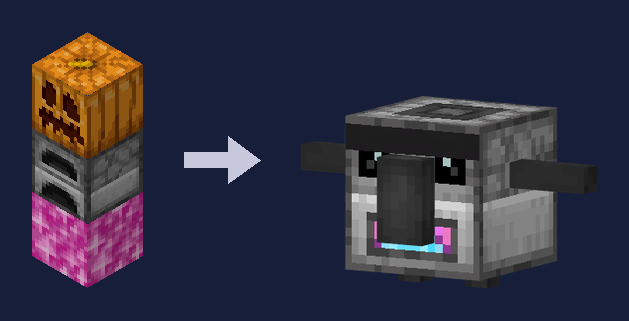
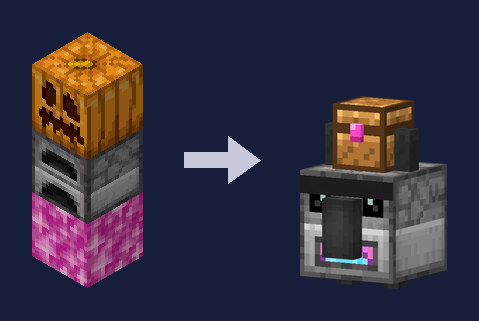
docs(golem): Truhe auf dem Kopf und Sonderquest mit Mala (DE/EN)
Stand MBSkyManager 574924a5, Pool 440e991b/73c1636e:
- Furnace Golem: Kopf-Truhe mit 27 Plätzen (nur Mana-Scherben, Klick oben),
  Ofen-Klick öffnet weiter das Menü, Truhe daneben geht weiter; er nimmt
  zuerst aus der Kopf-Truhe. Beim Abbauen fallen ihre Scherben am Golem.
- Neue Sonderquest mit Mala nach dem ersten Bewohner: geliehener Golem,
  sieben Zeilen, Schrein mit Mana-Block, Ofen und Kürbis.
- Hinweis, dass das Video noch den früheren Golem zeigt.
- Bauplan-Bild mit dem neuen Modell neu gerendert.
- Kurze Hinweise in Start, Quests, HUD, Reisen, Mitglieder, Mana-Items.

diff --git a/sb/furnace-golem.md b/sb/furnace-golem.md
@@ -1,14 +1,15 @@
 ---
 description: >-
   Der Furnace Golem auf MegaBuild.de – Mana-Kugeln und Mana-Blöcke einzahlen,
-  Mana abheben und Mana-Scherben aus der Mana-Geode zu Mana verbacken. Bauen,
-  Menü, Tageslimit und wo die Scherben wachsen.
+  Mana abheben und Mana-Scherben aus der Mana-Geode in der Truhe auf seinem
+  Kopf zu Mana verbacken. Bauen, Menü, Tageslimit, Malas Sonderquest und wo die
+  Scherben wachsen.
 icon: fire
 ---
 
 # Furnace Golem & Mana-Geode
 
-Der **Furnace Golem** bringt dein Mana aufs Konto. Bei ihm zahlst du deine **Mana-Kugeln** und **Mana-Blöcke** ein, hebst Mana als Kugeln wieder ab, und er verbackt **Mana-Scherben** aus der **Mana-Geode** zu Mana – auch wenn du offline bist. Du baust ihn dir selbst, so viele du willst.
+Der **Furnace Golem** bringt dein Mana aufs Konto. Bei ihm zahlst du deine **Mana-Kugeln** und **Mana-Blöcke** ein, hebst Mana als Kugeln wieder ab, und er verbackt **Mana-Scherben** aus der **Mana-Geode** zu Mana – auch wenn du offline bist. Die Scherben legst du ihm einfach in die **Truhe auf seinem Kopf**. Du baust ihn dir selbst, so viele du willst.
 
 <figure><img src="../.gitbook/assets/videos/furnace_golem.jpg" alt="Cover des Videos „Furnace Golem“ mit dem Golem, Mana-Scherbe, Mana-Block und Mana-Kugel"><figcaption><p>Das Video „Furnace Golem“ – Mala erklärt, Ton an</p></figcaption></figure>
 
@@ -16,12 +17,16 @@ Der **Furnace Golem** bringt dein Mana aufs Konto. Bei ihm zahlst du deine **Man
 **Video: Furnace Golem** (1:40, mit Ton) – Mala zeigt dir, wie du den Golem baust, Mana ein- und abhebst und Mana-Scherben verbackst.
 {% endfile %}
 
+{% hint style="info" %}
+**Das Video zeigt noch den früheren Golem:** mit den Armen über dem Kopf und ohne Truhe darauf. Die Scherben kommen dort nur in eine Truhe neben ihm. Heute trägt er eine **Truhe auf dem Kopf**, in die du die Scherben direkt legst – siehe [Scherben verbacken](#scherben-verbacken).
+{% endhint %}
+
 | | |
 | --- | --- |
 | **Bauen** | Mana-Block, darauf ein Ofen, obendrauf ein geschnitzter Kürbis oder eine Kürbislaterne |
 | **Einzahlen** | Mana-Kugeln (1 Mana) und Mana-Blöcke (17 Mana) |
 | **Abheben** | Nur als Mana-Kugeln, so viel ins Inventar passt |
-| **Scherben** | **1 Mana** je Mana-Scherbe, 2 Minuten Arbeit je Scherbe |
+| **Scherben** | **1 Mana** je Mana-Scherbe, 2 Minuten Arbeit je Scherbe – in die Truhe auf seinem Kopf (27 Plätze) oder in eine Truhe neben ihm |
 | **Tageslimit** | **20 Scherben am Tag**, für alle deine Golems zusammen – neues Limit um 04:00 Uhr |
 
 ## Der Mana-Block
@@ -39,7 +44,9 @@ Der **Mana-Block** ist verdichtetes Mana und der Fuß jedes Furnace Golem. **8 M
 
 Setz den **Mana-Block**, darauf einen **Ofen** und zum Schluss einen **geschnitzten Kürbis** oder eine **Kürbislaterne** als Kopf. Erst der Kopf baut den Golem: Die drei Blöcke zerfallen, und an ihrer Stelle steht der Furnace Golem. Er schaut dorthin, wohin das Kürbisgesicht geschaut hat.
 
-<figure><img src="../.gitbook/assets/mana/bauplan-golem.png" alt="Mana-Block, Ofen und geschnitzter Kürbis übereinander, daneben der fertige Furnace Golem"><figcaption><p>Mana-Block, Ofen, Kürbis – und fertig ist der Furnace Golem</p></figcaption></figure>
+So sieht er aus: ein grauer Ofenkörper mit Augen und dunkler Nase, oben in der Mitte eine kleine **Holztruhe mit rosa Riegel**, links und rechts davon zwei kurze Armstummel, die nach oben zeigen.
+
+<figure><img src="../.gitbook/assets/mana/bauplan-golem.png" alt="Mana-Block, Ofen und geschnitzter Kürbis übereinander, daneben der fertige Furnace Golem mit einer kleinen Holztruhe auf dem Kopf"><figcaption><p>Mana-Block, Ofen, Kürbis – und fertig ist der Furnace Golem mit der Truhe auf dem Kopf</p></figcaption></figure>
 
 * **Nur im Überlebensmodus.** Auf fremden Inseln brauchst du das Recht **Bauen**, als Besucher geht es nicht.
 * **Wer den Kopf setzt, ist der Erbauer.** Ihm gehört das Mana aus den Scherben.
@@ -53,12 +60,12 @@ Der **Golem auf deinem Luftschiff** ist ein anderer: Er öffnet den [Skilltree](
 
 ## Das Menü
 
-Ein **Rechtsklick** auf den Golem öffnet sein Menü, und er grüßt dich. Auf fremden Inseln brauchst du dafür das Recht **Behälter**, Besucher dürfen ihn nicht benutzen.
+Ein **Rechtsklick** auf seinen Ofenkörper öffnet sein Menü, und er grüßt dich. Klickst du weiter oben auf die Truhe auf seinem Kopf, öffnet sich stattdessen die Truhe – siehe [Scherben verbacken](#scherben-verbacken). Auf fremden Inseln brauchst du für beides das Recht **Behälter**, Besucher dürfen ihn nicht benutzen.
 
 * **Oben:** dein Mana-Konto, wie viele Mana-Kugeln und Mana-Blöcke du dabeihast, wie viele Kugeln du selbst abgebaut und noch nicht eingezahlt hast und wie viele fremde Kugeln heute noch gehen.
 * **Zweite Reihe – Einzahlen** (grüne Knöpfe): eine Kugel, einen Stapel, alle Kugeln, einen Mana-Block oder alle Mana-Blöcke. Die Zahl auf dem Knopf zeigt, wie viele ein Klick gerade einzahlt.
 * **Dritte Reihe – Abheben** (goldene Knöpfe): 1, 16 oder 64 Kugeln.
-* **Unten:** die **Mana-Scherben** in den Truhen neben ihm, seine **Arbeit** – wer ihn gebaut hat, wie weit die Scherbe ist und warum er gerade Pause macht – und das **Tageslimit**. Dazu **Abbauen** und **Schließen**.
+* **Unten:** die **Mana-Scherben** in der Truhe auf seinem Kopf und in den Truhen neben ihm – ein Klick darauf öffnet die Kopf-Truhe –, seine **Arbeit** – wer ihn gebaut hat, wie weit die Scherbe ist und warum er gerade Pause macht – und das **Tageslimit**. Dazu **Abbauen** und **Schließen**.
 
 ### Einzahlen
 
@@ -98,25 +105,60 @@ Die **Mana-Scherben** für den Golem wachsen in den Höhlen der Hauptinseln – 
 
 ## Scherben verbacken
 
-Stell eine **Truhe**, eine **Redstone-Truhe** oder ein **Fass** waagerecht **direkt neben den Golem** und leg Mana-Scherben hinein.
+### Die Truhe auf seinem Kopf
 
-1. Der Golem nimmt sich **eine Scherbe** aus der Truhe.
-2. Er arbeitet **2 Minuten** daran, die Arme über dem Kopf – rosa Mana glimmt am Ofenmaul, ein heller Faden steigt zwischen seinen Armen auf, und rosa Mana-Staub kreist um ihn. Dazu klingt es leise wie Amethyst.
+Mach einen **Rechtsklick oben auf den Golem**, auf die **Truhe auf seinem Kopf**. Sie öffnet sich direkt als Truhe mit **27 Plätzen**. Leg deine Mana-Scherben hinein – den Rest macht der Golem.
+
+* **Hinein passen nur Mana-Scherben.** Herausnehmen geht immer.
+* Klickst du weiter unten, auf den Ofen, öffnet sich wie bisher sein Menü (siehe oben).
+* Öffnen darfst du sie, wenn du kein Besucher bist und auf der Insel das Recht **Behälter** hast.
+
+### Eine Truhe daneben geht auch
+
+Du kannst auch eine **Truhe**, eine **Redstone-Truhe** oder ein **Fass** waagerecht **direkt neben den Golem** stellen und die Scherben dort hineinlegen. Nicht als Scherbenkiste zählen Shop-Behälter, Clan-Projektkisten und eine Doppeltruhe, deren andere Hälfte nicht geladen oder gesperrt ist.
+
+### So backt er
+
+1. Der Golem nimmt sich **eine Scherbe** – zuerst aus der Truhe auf seinem Kopf: Der Deckel geht auf, und er greift mit beiden Armstummeln hinein. Ist sie leer, nimmt er die Scherbe aus einer Truhe neben sich. Hast du die Kopf-Truhe gerade offen, siehst du die Scherbe darin verschwinden.
+2. Er arbeitet **2 Minuten** daran – rosa Mana glimmt an seinem Ofenmaul, über der Truhe steigt ein heller Faden auf, und rosa Mana-Staub windet sich um ihn nach oben. Dazu klingt es leise wie Amethyst.
 3. Dann bekommt der **Erbauer 1 Mana** aufs Konto, auch wenn er gerade offline ist. Danach nimmt der Golem die nächste Scherbe.
 
 * **Tageslimit: 20 Scherben** je Erbauer und Tag, über alle seine Golems und Inseln zusammen. Ist es voll, döst der Golem bis zum Tageswechsel um **04:00 Uhr**. Das Limit für Aktionen berührt das nicht.
-* **Er arbeitet nur, solange die Insel geladen ist.** Ohne Scherbe oder ohne Truhe wartet er.
+* **Er arbeitet nur, solange die Insel geladen ist.** Ohne Scherbe wartet er und schaut sich um.
 * Scherben hineinlegen darf jeder, der an die Truhe darf – das Mana geht immer an den Erbauer.
-* Nicht als Scherbenkiste zählen Shop-Behälter, Clan-Projektkisten und eine Doppeltruhe, deren andere Hälfte nicht geladen oder gesperrt ist.
 
 ## Abbauen
 
 Im Menü auf **Abbauen** klicken und bestätigen.
 
 * Nur mit dem Recht **Bauen**, nicht als Besucher, und im Überlebens- oder Kreativmodus.
-* Im Überlebensmodus bekommst du **Kopf, Ofen und Mana-Block** zurück. Eine Scherbe, an der er gerade arbeitet, fällt immer heraus.
+* Im Überlebensmodus bekommst du **Kopf, Ofen und Mana-Block** zurück.
+* **Die Scherben aus seiner Truhe** und eine Scherbe, an der er gerade arbeitet, fallen immer auf den Boden – auch im Kreativmodus. Sie landen genau am Golem und fliegen nicht herum, damit am Inselrand nichts in die Leere fällt. Liegen Scherben in seiner Truhe, sagen dir Knopf und Rückfrage das vorher.
 * Rechnet er gerade eine Scherbe ab, versuch es einen Moment später noch einmal.
 * An deinem Konto ändert das Abbauen nichts.
+
+## Die Sonderquest mit Mala
+
+Einmal führt dir **Mala** einen Furnace Golem vor – mit Stimme und Untertiteln.
+
+* **Wann:** nach deinem ersten Bewohner, also wenn du ihn gefunden hast und Mala ihn dir vorgestellt hat. Ist auf deiner Insel noch kein erster Bewohner da, wartet sie höchstens 15 Minuten.
+* **Für wen:** einmal je Spieler und nur für die Spieler der Insel – den Besitzer, Mitglieder mit **Betreten** und auf einer Clan-Insel den Clan. Gäste und Zuschauer bekommen sie nicht, siehe [Reisen & Zuschauen](reisen.md#bewohner-auf-fremden-inseln).
+* **Wo:** auf der Startinsel, 5 bis 12 Blöcke vom Spawn. Eine Chatzeile nennt dir Richtung und Koordinaten, und der Pfeil im Questkasten zeigt dir den Weg.
+
+Mala wartet dort mit einem **geliehenen Golem**, der die Truhe schon auf dem Kopf trägt. Kommst du auf 6 Blöcke heran, erklärt sie dir in sieben Zeilen:
+
+1. Sie stellt dir den Furnace Golem vor.
+2. Mana-Scherben legst du in die Truhe auf seinem Kopf – eine Scherbe schwebt von Mala hinein, und der Deckel geht auf.
+3. Er backt jede Scherbe eine Weile und schreibt dir dafür Mana gut.
+4. Bei ihm zahlst du deine Mana-Kugeln aufs Konto ein.
+5. So baust du dir einen eigenen: Auf einem kleinen **Schrein** erscheinen **Mana-Block, Ofen und geschnitzter Kürbis** übereinander, jeder genau dann, wenn Mala ihn nennt.
+6. Den Mana-Block craftest du aus acht Mana-Kugeln rund um eine Mana-Ladung.
+7. Der Golem war nur geliehen und verschwindet in rosa Funken.
+
+Danach ist die Quest geschafft, und eine Chatzeile fasst noch einmal zusammen, wie du deinen eigenen Golem baust und befüllst.
+
+* Gehst du mittendrin **weiter als 24 Blöcke** weg, bricht die Quest ab. Kommst du wieder heran, beginnt sie von vorn.
+* **Das alles siehst nur du:** Mala, den Golem, den Schrein und die Scherbe. An der Insel ändert sich nichts.
 
 ## Handel
 

diff --git a/en/furnace-golem.md b/en/furnace-golem.md
@@ -1,14 +1,15 @@
 ---
 description: >-
   The Furnace Golem on MegaBuild.de – deposit Mana orbs and Mana Blocks,
-  withdraw Mana and turn Mana Shards from the Mana Geode into Mana. Building,
-  menu, daily limit and where the shards grow.
+  withdraw Mana and turn Mana Shards from the Mana Geode into Mana in the chest
+  on its head. Building, menu, daily limit, Mala's special quest and where the
+  shards grow.
 icon: fire
 ---
 
 # Furnace Golem & Mana Geode
 
-The **Furnace Golem** puts your Mana into your account. At the golem you deposit your **Mana orbs** and **Mana Blocks**, withdraw Mana as orbs, and it turns **Mana Shards** from the **Mana Geode** into Mana – even while you're offline. You build it yourself, as many as you like.
+The **Furnace Golem** puts your Mana into your account. At the golem you deposit your **Mana orbs** and **Mana Blocks**, withdraw Mana as orbs, and it turns **Mana Shards** from the **Mana Geode** into Mana – even while you're offline. You simply put the shards into the **chest on its head**. You build it yourself, as many as you like.
 
 <figure><img src="../.gitbook/assets/videos/furnace_golem.jpg" alt="Cover of the video “Furnace Golem” with the golem, a Mana Shard, a Mana Block and a Mana orb"><figcaption><p>The video “Furnace Golem” – Mala explains, in German</p></figcaption></figure>
 
@@ -16,12 +17,16 @@ The **Furnace Golem** puts your Mana into your account. At the golem you deposit
 **Video: Furnace Golem** (1:40, in German, with sound) – Mala shows you how to build the golem, deposit and withdraw Mana and turn Mana Shards into Mana.
 {% endfile %}
 
+{% hint style="info" %}
+**The video still shows the earlier golem:** with its arms raised over its head and no chest on top. In the video the shards only go into a chest next to it. Today it carries a **chest on its head** that you put the shards straight into – see [Turning shards into Mana](#turning-shards-into-mana).
+{% endhint %}
+
 | | |
 | --- | --- |
 | **Building** | A Mana Block, a furnace on top, then a carved pumpkin or a jack o'lantern |
 | **Deposit** | Mana orbs (1 Mana) and Mana Blocks (17 Mana) |
 | **Withdraw** | Only as Mana orbs, as much as fits into your inventory |
-| **Shards** | **1 Mana** per Mana Shard, 2 minutes of work per shard |
+| **Shards** | **1 Mana** per Mana Shard, 2 minutes of work per shard – into the chest on its head (27 slots) or a chest next to it |
 | **Daily limit** | **20 shards a day** for all your golems together – new limit at 04:00 |
 
 ## The Mana Block
@@ -39,7 +44,9 @@ The **Mana Block** is compressed Mana and the base of every Furnace Golem. **8 M
 
 Place the **Mana Block**, a **furnace** on top of it and finally a **carved pumpkin** or a **jack o'lantern** as the head. Only the head builds the golem: the three blocks fall apart and the Furnace Golem stands in their place. It faces the way the pumpkin face was pointing.
 
-<figure><img src="../.gitbook/assets/mana/bauplan-golem.png" alt="Mana Block, furnace and carved pumpkin stacked, next to them the finished Furnace Golem"><figcaption><p>Mana Block, furnace, pumpkin – and the Furnace Golem is ready</p></figcaption></figure>
+This is what it looks like: a grey furnace body with eyes and a dark nose, a small **wooden chest with a pink latch** on top in the middle, and two short arm stubs pointing up on either side of it.
+
+<figure><img src="../.gitbook/assets/mana/bauplan-golem.png" alt="Mana Block, furnace and carved pumpkin stacked, next to them the finished Furnace Golem with a small wooden chest on its head"><figcaption><p>Mana Block, furnace, pumpkin – and the Furnace Golem with the chest on its head is ready</p></figcaption></figure>
 
 * **Survival mode only.** On other islands you need the **Build** right; visitors can't build one.
 * **Whoever places the head is the builder.** The Mana from the shards belongs to them.
@@ -53,12 +60,12 @@ The **golem on your airship** is a different one: it opens the [skill tree](skil
 
 ## The menu
 
-A **right-click** on the golem opens its menu, and it greets you. On other islands you need the **Containers** right; visitors can't use it.
+A **right-click** on its furnace body opens its menu, and it greets you. If you click higher up, on the chest on its head, the chest opens instead – see [Turning shards into Mana](#turning-shards-into-mana). On other islands you need the **Containers** right for both; visitors can't use it.
 
 * **Top:** your Mana account, how many Mana orbs and Mana Blocks you carry, how many orbs you mined yourself and haven't deposited yet, and how many foreign orbs you can still deposit today.
 * **Second row – Deposit** (green buttons): one orb, a stack, all orbs, one Mana Block or all Mana Blocks. The number on the button shows how many one click deposits right now.
 * **Third row – Withdraw** (gold buttons): 1, 16 or 64 orbs.
-* **Bottom:** the **Mana shards** in the chests next to it, its **Work** – who built it, how far the shard is and why it's taking a break – and the **Daily limit**. Plus **Dismantle** and **Close**.
+* **Bottom:** the **Mana shards** in the chest on its head and in the chests next to it (a click on this card opens the head chest), its **Work** – who built it, how far the shard is and why it's taking a break – and the **Daily limit**. Plus **Dismantle** and **Close**.
 
 ### Deposit
 
@@ -98,25 +105,60 @@ The **Mana Shards** for the golem grow in the caves of the main islands – on *
 
 ## Turning shards into Mana
 
-Put a **chest**, a **trapped chest** or a **barrel** horizontally **right next to the golem** and put Mana Shards into it.
+### The chest on its head
 
-1. The golem takes **one shard** from the chest.
-2. It works on it for **2 minutes** with its arms raised over its head – pink Mana glows at the furnace mouth, a bright strand rises between its arms, and pink mana dust swirls around it, with a soft amethyst chime.
+**Right-click the top of the golem**, the **chest on its head**. It opens straight away as a chest with **27 slots**. Put your Mana Shards in – the golem does the rest.
+
+* **Only Mana Shards fit in.** You can always take things out.
+* If you click lower down, on the furnace, its menu opens as before (see above).
+* You may open it if you're not a visitor and have the **Containers** right on the island.
+
+### A chest next to it works too
+
+You can also put a **chest**, a **trapped chest** or a **barrel** horizontally **right next to the golem** and put the shards in there. Shop containers, clan project chests and a double chest whose other half isn't loaded or is locked don't count as shard chests.
+
+### How it bakes
+
+1. The golem takes **one shard** – first from the chest on its head: the lid opens and it reaches in with both arm stubs. If that one is empty, it takes the shard from a chest next to it. If you have the head chest open at that moment, you see the shard disappear from it.
+2. It works on it for **2 minutes** – pink Mana glows at its furnace mouth, a bright strand rises above the chest, and pink mana dust winds its way up around it, with a soft amethyst chime.
 3. Then the **builder gets 1 Mana** in their account, even while offline. After that the golem takes the next shard.
 
 * **Daily limit: 20 shards** per builder and day, across all their golems and islands. When it's full, the golem dozes until the daily reset at **04:00**. This doesn't touch the daily limit for actions.
-* **It only works while the island is loaded.** Without a shard or without a chest it waits.
+* **It only works while the island is loaded.** Without a shard it waits and looks around.
 * Anyone who may open the chest may put shards into it – the Mana always goes to the builder.
-* Shop containers, clan project chests and a double chest whose other half isn't loaded or is locked don't count as shard chests.
 
 ## Dismantling
 
 Click **Dismantle** in the menu and confirm.
 
 * Only with the **Build** right, not as a visitor, and in survival or creative mode.
-* In survival mode you get the **head, furnace and Mana Block** back. A shard it's working on always drops.
+* In survival mode you get the **head, furnace and Mana Block** back.
+* **The shards from its chest** and a shard it's working on always drop to the ground – in creative mode too. They land right at the golem and don't scatter, so nothing falls into the void at the edge of the island. If there are shards in its chest, the button and the confirmation tell you beforehand.
 * If it's settling a shard right now, try again a moment later.
 * Dismantling doesn't change your account.
+
+## The special quest with Mala
+
+Once, **Mala** shows you a Furnace Golem – with voice and subtitles.
+
+* **When:** after your first resident, that is once you've found them and Mala has introduced them to you. If there's no first resident on your island yet, she waits 15 minutes at most.
+* **Who:** once per player and only for the island's own players – the owner, members with **Join** and, on a clan island, the clan. Guests and spectators don't get it, see [Travel & Watching](travel.md#residents-on-other-islands).
+* **Where:** on the starting island, 5 to 12 blocks from the spawn. A chat line tells you the direction and coordinates, and the arrow in the quest box shows you the way.
+
+Mala waits there with a **borrowed golem** that already carries the chest on its head. Once you're within 6 blocks, she explains in seven lines:
+
+1. She introduces the Furnace Golem.
+2. You put Mana Shards into the chest on its head – a shard floats in from Mala and the lid opens.
+3. It bakes each shard for a while and credits you with Mana for it.
+4. It's also where you deposit your Mana orbs into your account.
+5. How to build your own: on a small **shrine**, a **Mana Block, a furnace and a carved pumpkin** appear one on top of the other, each right when Mala names it.
+6. You craft the Mana Block from eight Mana orbs around a Mana Charge.
+7. The golem was only on loan and vanishes in pink sparks.
+
+After that the quest is done, and a chat line sums up once more how to build and fill your own golem.
+
+* If you walk **more than 24 blocks** away in the middle of it, the quest stops. When you come back, it starts over.
+* **Only you see it all:** Mala, the golem, the shrine and the shard. Nothing changes on the island.
 
 ## Trading
 

diff --git a/sb/mitglieder.md b/sb/mitglieder.md
@@ -40,7 +40,7 @@ Einladen dürfen der Besitzer und Mitglieder mit dem Recht **Mitglieder**.
 | Recht | Was es erlaubt |
 | ----- | -------------- |
 | **Bauen** | Blöcke setzen und abbauen, Eimer, Feuer, Rüstungsständer, Rahmen, Schilder |
-| **Behälter** | Kisten, Fässer, Öfen, Trichter, Braustände, Lesepulte, das Menü des [Furnace Golem](furnace-golem.md) |
+| **Behälter** | Kisten, Fässer, Öfen, Trichter, Braustände, Lesepulte, das Menü und die Truhe auf dem Kopf des [Furnace Golem](furnace-golem.md) |
 | **Schalter** | Türen, Falltüren, Zauntore, Knöpfe, Hebel, Druckplatten |
 | **Tiere** | Tiere schlagen, füttern, züchten, anleinen, scheren, melken, reiten, [Forestlinge](forestlinge.md#an-der-leine) an die Leine nehmen und losbinden |
 | **Ernten** | Reife Pflanzen ernten und neu pflanzen |
@@ -55,7 +55,7 @@ Dazu kommt der Schalter **Betreten**: Ist er aus, kommt das Mitglied nur noch ü
 
 * Fehlt dir ein Recht, sagt dir die Anzeige über der Hotbar, welches – zum Beispiel „Hier darfst du nicht bauen.“
 * Eine Kiste, einen Ofen oder einen anderen Block mit Inhalt abbauen braucht **Bauen und Behälter**.
-* Einen [Furnace Golem](furnace-golem.md) bauen oder abbauen braucht **Bauen**, sein Menü öffnen **Behälter**.
+* Einen [Furnace Golem](furnace-golem.md) bauen oder abbauen braucht **Bauen**, sein Menü oder seine Truhe öffnen **Behälter**.
 * **Shop-Behälter** öffnen nur der Shop-Besitzer, der Inselbesitzer und das Team – das Recht Behälter reicht dafür nicht.
 * **Fliegen** mit dem `/fly` deines Rangs geht nur, wo du das Recht **Bauen** hast.
 * Als Besitzer hast du immer alle Rechte. Deine Insel **löschen** kannst nur du, in der Lobby.

diff --git a/en/members.md b/en/members.md
@@ -40,7 +40,7 @@ The owner and members with the **Members** right can invite.
 | Right | What it allows |
 | ----- | -------------- |
 | **Build** | Place and break blocks, buckets, fire, armour stands, frames, signs |
-| **Containers** | Chests, barrels, furnaces, hoppers, brewing stands, lecterns, the [Furnace Golem](furnace-golem.md) menu |
+| **Containers** | Chests, barrels, furnaces, hoppers, brewing stands, lecterns, the [Furnace Golem](furnace-golem.md) menu and the chest on its head |
 | **Switches** | Doors, trapdoors, fence gates, buttons, levers, pressure plates |
 | **Animals** | Hit, feed, breed, leash, shear, milk and ride animals, put [Forestlings](forestlings.md#on-a-lead) on a lead and untie them |
 | **Harvest** | Harvest ripe crops and replant |
@@ -55,7 +55,7 @@ On top of that there's the **Join** switch: if it's off, the member only gets on
 
 * If you're missing a right, the display above the hotbar tells you which one – for example “You may not build here.”
 * Breaking a chest, furnace or any other block with contents needs **Build and Containers**.
-* Building or dismantling a [Furnace Golem](furnace-golem.md) needs **Build**, opening its menu needs **Containers**.
+* Building or dismantling a [Furnace Golem](furnace-golem.md) needs **Build**, opening its menu or its chest needs **Containers**.
 * **Shop containers** can only be opened by the shop owner, the island owner and the team – the Containers right isn't enough.
 * **Flying** with your rank's `/fly` only works where you have the **Build** right.
 * As the owner you always have all rights. Only you can **delete** your island, in the lobby.

diff --git a/sb/start.md b/sb/start.md
@@ -124,7 +124,9 @@ Auf einer kleinen Nachbarinsel, rund 100 Blöcke entfernt, ist jemand eingezogen
 
 Eine **Rankentreppe** aus Blättern führt hinüber. Dort wartet **Mala** mit deinem ersten **KI-Bewohner** und stellt ihn dir vor – und einen scheuen **Forestling** gleich dazu. Danach redet der Bewohner im Chat mit dir – und verkauft dir schon **Proviant**, also Essbares gegen Ruby.
 
-Die Sonderquest und Malas Vorstellung gibt es nur auf Inseln, zu denen du gehörst: auf deiner eigenen, auf Inseln, auf denen du Mitglied mit **Betreten** bist, und auf der Clan-Insel deines Clans. Auf anderen Inseln bist du Gast – siehe [Reisen & Zuschauen](reisen.md#bewohner-auf-fremden-inseln).
+**Danach wartet Mala noch einmal auf dich:** Auf der Startinsel, ein paar Blöcke vom Spawn, führt sie dir in einer zweiten Sonderquest einen geliehenen **Furnace Golem** vor und zeigt dir auf einem kleinen Schrein, aus welchen Blöcken du dir selbst einen baust. Der Pfeil im Questkasten bringt dich hin – mehr unter [Furnace Golem](furnace-golem.md#die-sonderquest-mit-mala).
+
+Die Sonderquests und Malas Vorstellung gibt es nur auf Inseln, zu denen du gehörst: auf deiner eigenen, auf Inseln, auf denen du Mitglied mit **Betreten** bist, und auf der Clan-Insel deines Clans. Auf anderen Inseln bist du Gast – siehe [Reisen & Zuschauen](reisen.md#bewohner-auf-fremden-inseln).
 
 {% content-ref url="bewohner.md" %}
 [bewohner.md](bewohner.md)

diff --git a/en/start.md b/en/start.md
@@ -124,7 +124,9 @@ On a small neighbouring island, about 100 blocks away, someone has moved in. Thr
 
 A **vine staircase** made of leaves leads across. **Mala** is waiting there with your first **AI resident** and introduces them to you – along with a shy **Forestling**. After that, the resident chats with you – and already sells you **provisions**, meaning food for Ruby.
 
-The special quest and Mala's introduction only happen on islands you belong to: your own, islands where you're a member with **Join**, and your clan's clan island. On other islands you're a guest – see [Travel & Watching](travel.md#residents-on-other-islands).
+**After that, Mala is waiting for you once more:** on the starting island, a few blocks from the spawn, she shows you a borrowed **Furnace Golem** in a second special quest, and a small shrine shows you which blocks to build your own from. The arrow in the quest box takes you there – more under [Furnace Golem](furnace-golem.md#the-special-quest-with-mala).
+
+The special quests and Mala's introduction only happen on islands you belong to: your own, islands where you're a member with **Join**, and your clan's clan island. On other islands you're a guest – see [Travel & Watching](travel.md#residents-on-other-islands).
 
 {% content-ref url="residents.md" %}
 [residents.md](residents.md)

diff --git a/sb/reisen.md b/sb/reisen.md
@@ -101,7 +101,7 @@ Versuchst du etwas davon, steht in der Anzeige über der Hotbar „Als Zuschauer
 
 ## Bewohner auf fremden Inseln
 
-Die [Sonderquest](start.md#die-sonderquest-finde-den-ersten-bewohner) „Finde den ersten Bewohner“ und Malas Vorstellung gibt es nur für die Spieler der Insel selbst: den Besitzer, Mitglieder mit **Betreten** und auf einer Clan-Insel den Clan. Alle anderen sind dort Gäste – Zuschauer genauso wie Mitspieler, die über Clan-Zugang, Hilferuf oder Freunde-Zugang kommen, und Mitglieder, bei denen **Betreten** aus ist.
+Die [Sonderquest](start.md#die-sonderquest-finde-den-ersten-bewohner) „Finde den ersten Bewohner“, Malas Vorstellung und ihre [Sonderquest mit dem Furnace Golem](furnace-golem.md#die-sonderquest-mit-mala) gibt es nur für die Spieler der Insel selbst: den Besitzer, Mitglieder mit **Betreten** und auf einer Clan-Insel den Clan. Alle anderen sind dort Gäste – Zuschauer genauso wie Mitspieler, die über Clan-Zugang, Hilferuf oder Freunde-Zugang kommen, und Mitglieder, bei denen **Betreten** aus ist.
 
 Als Gast auf einer fremden Insel:
 

diff --git a/en/travel.md b/en/travel.md
@@ -101,7 +101,7 @@ If you try one of these, the display above the hotbar shows “You cannot do tha
 
 ## Residents on other islands
 
-The [special quest](start.md#the-special-quest-find-the-first-resident) “Find the first resident” and Mala's introduction are only for the island's own players: the owner, members with **Join** and, on a clan island, the clan. Everyone else is a guest there – spectators as well as fellow players who come in through clan access, a call for help or friend access, and members whose **Join** switch is off.
+The [special quest](start.md#the-special-quest-find-the-first-resident) “Find the first resident”, Mala's introduction and her [special quest with the Furnace Golem](furnace-golem.md#the-special-quest-with-mala) are only for the island's own players: the owner, members with **Join** and, on a clan island, the clan. Everyone else is a guest there – spectators as well as fellow players who come in through clan access, a call for help or friend access, and members whose **Join** switch is off.
 
 As a guest on another island:
 

diff --git a/sb/mana-items.md b/sb/mana-items.md
@@ -76,7 +76,7 @@ Hast du einen Mob mit einer leeren [Mobplate](mobplates.md) markiert, nimmt ihm 
 
 Mana-Scherben wachsen in der **Mana-Geode**: Auf dem **Knospenden Mana-Amethyst** am Boden der Höhlen wächst ein Mana-Kristall in vier Stufen. Nur der **ausgewachsene Kristall** gibt beim Abbauen eine Mana-Scherbe – das dauert im Schnitt etwa 40 Minuten.
 
-Leg die Scherben in eine Truhe oder ein Fass neben einen [Furnace Golem](furnace-golem.md#scherben-verbacken). Er macht aus jeder Scherbe in 2 Minuten **1 Mana** für seinen Erbauer, bis zu 20 Scherben am Tag. Wo die Geode liegt und worauf du achten musst, steht unter [Furnace Golem & Mana-Geode](furnace-golem.md#die-mana-geode).
+Leg die Scherben in die Truhe auf dem Kopf eines [Furnace Golem](furnace-golem.md#scherben-verbacken) – oder in eine Truhe oder ein Fass neben ihm. Er macht aus jeder Scherbe in 2 Minuten **1 Mana** für seinen Erbauer, bis zu 20 Scherben am Tag. Wo die Geode liegt und worauf du achten musst, steht unter [Furnace Golem & Mana-Geode](furnace-golem.md#die-mana-geode).
 
 ## Handel
 

diff --git a/en/mana-items.md b/en/mana-items.md
@@ -75,7 +75,7 @@ Once you've marked a mob with an empty [Mobplate](mobplates.md), right-clicking 
 
 Mana Shards grow in the **Mana Geode**: a mana crystal grows in four stages on **Budding Mana Amethyst** on the cave floor. Only the **full-grown crystal** gives a Mana Shard when you mine it – that takes about 40 minutes on average.
 
-Put the shards into a chest or barrel next to a [Furnace Golem](furnace-golem.md#turning-shards-into-mana). It turns each shard into **1 Mana** for its builder in 2 minutes, up to 20 shards a day. Where the geode is and what to watch out for is under [Furnace Golem & Mana Geode](furnace-golem.md#the-mana-geode).
+Put the shards into the chest on a [Furnace Golem](furnace-golem.md#turning-shards-into-mana)'s head – or into a chest or barrel next to it. It turns each shard into **1 Mana** for its builder in 2 minutes, up to 20 shards a day. Where the geode is and what to watch out for is under [Furnace Golem & Mana Geode](furnace-golem.md#the-mana-geode).
 
 ## Trading
 

diff --git a/en/quests.md b/en/quests.md
@@ -1,6 +1,6 @@
 ---
 description: >-
-  Daily, weekly and bonus quests, biome quests and the special quest on
+  Daily, weekly and bonus quests, biome quests and the special quests on
   MegaBuild.de – what there is, what they give you and how skipping works.
 icon: scroll
 ---
@@ -18,6 +18,7 @@ Quests are your most reliable source of Mana. Open them **on your island** with 
 | **Bonus quest** | For everyone who finishes the weekly quest quickly | below |
 | **Biome and crystal quests** | Fixed tasks of your island that open new biomes in the skill tree | [Skill Tree & Biomes](skilltree.md#biome-quests) |
 | **Special quest** | “Find the first resident” – once, right after you arrive | [Getting Started](start.md#the-special-quest-find-the-first-resident) |
+| **Special quest Furnace Golem** | Mala shows you a Furnace Golem – once, after the first resident | [Furnace Golem](furnace-golem.md#the-special-quest-with-mala) |
 
 ## Daily, weekly and bonus quests
 

diff --git a/sb/quests.md b/sb/quests.md
@@ -1,6 +1,6 @@
 ---
 description: >-
-  Tages-, Wochen- und Bonusquests, Biomquests und die Sonderquest auf
+  Tages-, Wochen- und Bonusquests, Biomquests und die Sonderquests auf
   MegaBuild.de – was es gibt, was sie bringen und wie das Überspringen geht.
 icon: scroll
 ---
@@ -18,6 +18,7 @@ Quests sind deine verlässlichste Mana-Quelle. Öffne sie **auf deiner Insel** m
 | **Bonusquest** | Für alle, die die Wochenquest schnell schaffen | unten |
 | **Biom- und Kristallquests** | Feste Aufgaben der Insel, die neue Biome im Skilltree öffnen | [Skilltree & Biome](skilltree.md#biomquests) |
 | **Sonderquest** | „Finde den ersten Bewohner“ – einmal, gleich nach der Ankunft | [Erste Schritte](start.md#die-sonderquest-finde-den-ersten-bewohner) |
+| **Sonderquest Furnace Golem** | Mala führt dir einen Furnace Golem vor – einmal, nach dem ersten Bewohner | [Furnace Golem](furnace-golem.md#die-sonderquest-mit-mala) |
 
 ## Tages-, Wochen- und Bonusquest
 
